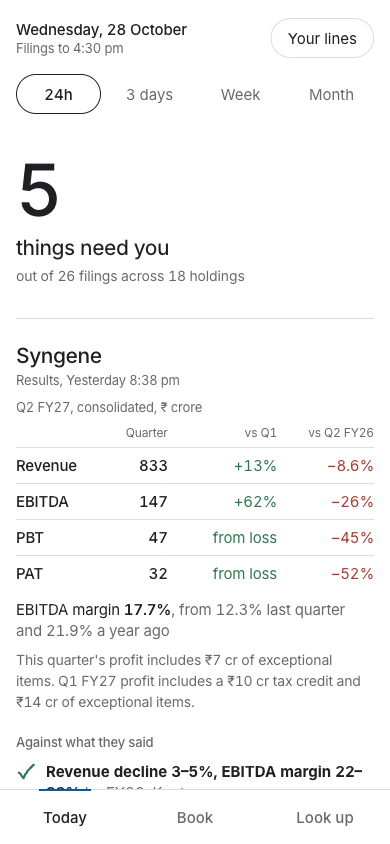
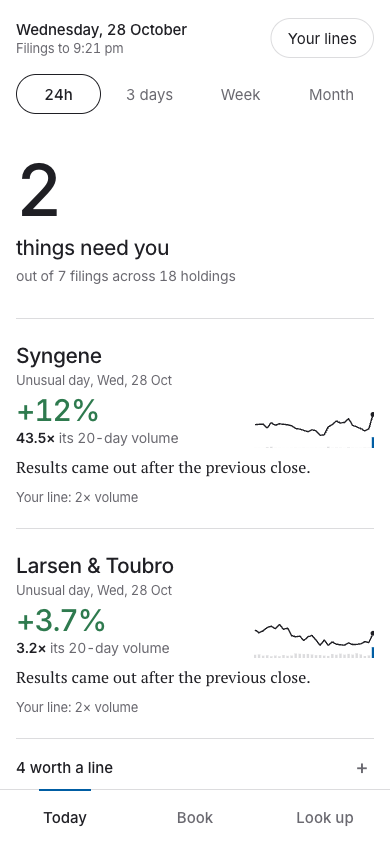
Update README screenshots

diff --git a/docs/PROGRESS.md b/docs/PROGRESS.md
@@ -1,6 +1,6 @@
 # Progress
 
-Next: before the 29 Oct 11:45 wrap-up, rebuild Today (`python3 pipeline/build_push.py`, model cache makes it cheap), update the counts in README/covering note/DECISIONS/walkthrough, redeploy from app/, retake the README Today shot (after midnight the header says 'Snapshot, filings to ...' until a rebuild). Otherwise keep polishing from the 'Never sit idle' list in the new design language (check each change against design/inspiration.md). Background: `pgrep -f regrade.sh` sleeps to 12:40 IST 29 Oct, which is after this session's 12:30 hard stop, so don't wait on it: wrap up with the current grades and leave its output (data/ changes) for a later session to review, then regrades the 8 flash-lite companies (log data/regrade2.log). When it finishes: compare verdicts (and check the three past-deadline-but-pending slips listed in the 28 Oct evening log), rerun evals/sample_grades.py and update evals/grades_review.md, redeploy, recheck screenshots. If the job died, restart: `nohup zsh pipeline/regrade.sh > data/regrade2.log 2>&1 &`.
+Next: 29 Oct ~10:45 IST, rebuild Today once more (`python3 pipeline/build_push.py`; flash-lite works, model cache makes it cheap) so the header isn't 'Snapshot, filings to 9:21 pm'; compare filing/tier counts and update README (286), DECISIONS (286/43/113/130), covering note and the walkthrough's 24h line if they change; test at 390x844; deploy from app/ (not web/); retake README Today and Book shots from the live link. Wrap up by 11:45: nothing big after, everything committed, pushed, deployed. Background: `pgrep -f regrade.sh` sleeps to 12:40 IST 29 Oct, after the 12:30 hard stop (flash is out of quota until the reset), so don't wait on it; its data/ changes are for a later session to review (compare verdicts, the three past-deadline slips in the 28 Oct evening log, rerun evals/sample_grades.py, update evals/grades_review.md, redeploy). Otherwise polish from the 'Never sit idle' list
 
 - [x] Brief analysis, company notes, ideation (docs/)
 - [x] Engine: finn/ (sources, classify, triage, results, people, ledger, research)
